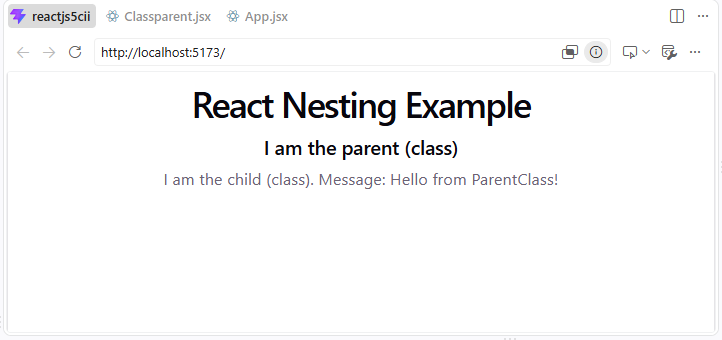
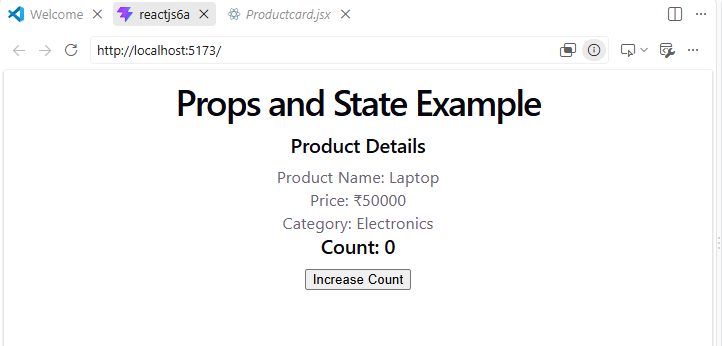
Add files via upload

diff --git a/App.jsx b/App.jsx
@@ -1,11 +1,24 @@
-import React from 'react';
-import Parent from './Parent';
+import React, { useState } from 'react';
+import ProductCard from './Productcard';
 
 function App() {
+  const [count, setCount] = useState(0);
+
   return (
     <div>
-      <h1>React Nesting Example</h1>
-      <Parent />
+      <h1>Props and State Example</h1>
+
+      <ProductCard
+        name="Laptop"
+        price="50000"
+        category="Electronics"
+      />
+
+      <h2>Count: {count}</h2>
+
+      <button onClick={() => setCount(count + 1)}>
+        Increase Count
+      </button>
     </div>
   );
 }

diff --git a/index.js b/index.js
@@ -1,7 +1,4 @@
-"use strict";
-
-const { ESLint } = require("./eslint");
-
-module.exports = {
-	ESLint,
-};
+module.exports.agents = require('./agents').agents
+module.exports.feature = require('./feature')
+module.exports.features = require('./features').features
+module.exports.region = require('./region')

diff --git a/Productcard.jsx b/Productcard.jsx
@@ -1,0 +1,14 @@
+import React from 'react';
+
+function ProductCard(props) {
+  return (
+    <div>
+      <h2>Product Details</h2>
+      <p>Product Name: {props.name}</p>
+      <p>Price: ₹{props.price}</p>
+      <p>Category: {props.category}</p>
+    </div>
+  );
+}
+
+export default ProductCard;

diff --git a/index.html b/index.html
@@ -4,7 +4,7 @@
     <meta charset="UTF-8" />
     <link rel="icon" type="image/svg+xml" href="/favicon.svg" />
     <meta name="viewport" content="width=device-width, initial-scale=1.0" />
-    <title>reactjs5ci</title>
+    <title>reactjs6a</title>
   </head>
   <body>
     <div id="root"></div>
